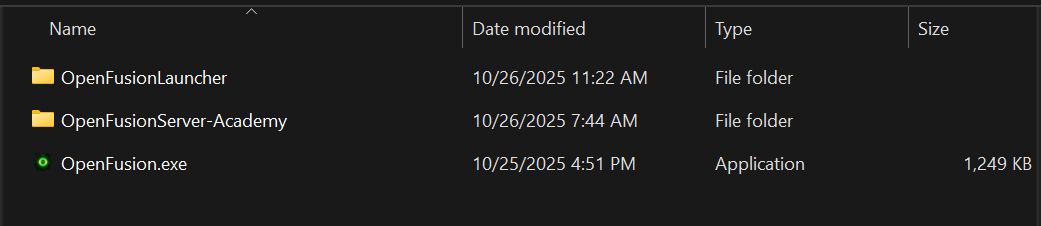
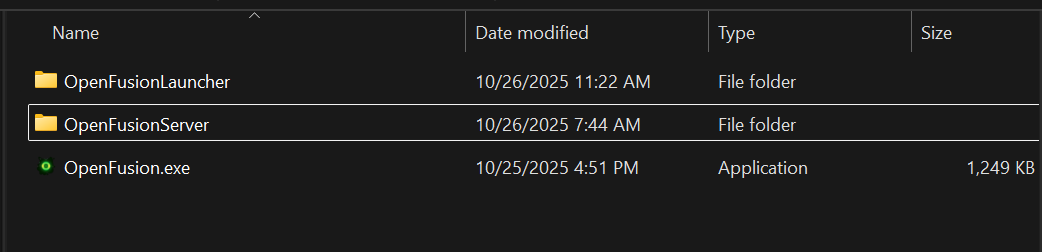
add gamehub steps

diff --git a/README.md b/README.md
@@ -9,23 +9,23 @@
 - Download and install AutoHotKey on PC. https://www.autohotkey.com/
 - Download and install Winlator and/Gamehub on the Android device. https://github.com/Dlegend123/OpenFusionAndroid/blob/master/OpenFusion.ahk
 
-1. Create an OpenFusion folder
-2. Copy the extracted OpenFusionLauncher-main folder to the OpenFusion folder
+1. Create an OpenFusion folder.
+2. Copy the extracted OpenFusionLauncher-main folder to the OpenFusion folder.
 3. Download offline cache
 - Click the gear button at the bottom left
-- Click on the Game Builds tab
-- Click the download button in the offline cache column for the specific build
-- Click the blue button beside the download button
-- In the new window copy the name of the current folder
+- Click on the Game Builds tab.
+- Click the download button in the offline cache column for the specific build.
+- Click the blue button beside the download button.
+- In the new window copy the name of the current folder.
 - Open the OpenFusion.ahk file in a text editor and replace the `VERSION_UUID`'s value, "6543a2bb-d154-4087-b9ee-3c8aa778580a", with the name of the folder. Do not remove the quotation marks.
 - Copy the parent offline_cache folder to the OpenFusionLauncher-main folder you extracted
-4. Rename OpenFusionLauncher-main to OpenFusionLauncher
+4. Rename OpenFusionLauncher-main to OpenFusionLauncher.
 5. Create an OpenFusionServer folder in the OpenFusion folder and copy the extracted contents of Openfusion Server(Windows Academy/Original) to it
-7. Open AutoHotKey Dash
-8. Click on Compile
-9. Click the `Browse` button at the `Source(script file)` field and select the OpenFusion.ahk file
-10. Click the `Browse` button at the `Destination(.exe file)` field and go to the OpenFusion folder
-11. Enter a name for the exe file then click `Save`
+7. Open AutoHotKey Dash.
+8. Click on Compile.
+9. Click the `Browse` button at the `Source(script file)` field and select the OpenFusion.ahk file.
+10. Click the `Browse` button at the `Destination(.exe file)` field and go to the OpenFusion folder.
+11. Enter a name for the exe file then click `Save`.
 12. Click the `Convert` button at the `Convert to executable` label.
 13. Move the OpenFusion folder to your Android Device.
 
@@ -41,3 +41,7 @@
 ## Winlator
 
 ## Gamehub
+- Import the OpenFusion.exe file in Gamehub.
+- Use proton10.0-arm64x-2 as the `Compatibility Layer`.
+- Use Performance as the `Translation Params`.
+- For the `DXVK Version` you can use dxvk-v2.6.2-1-async.
